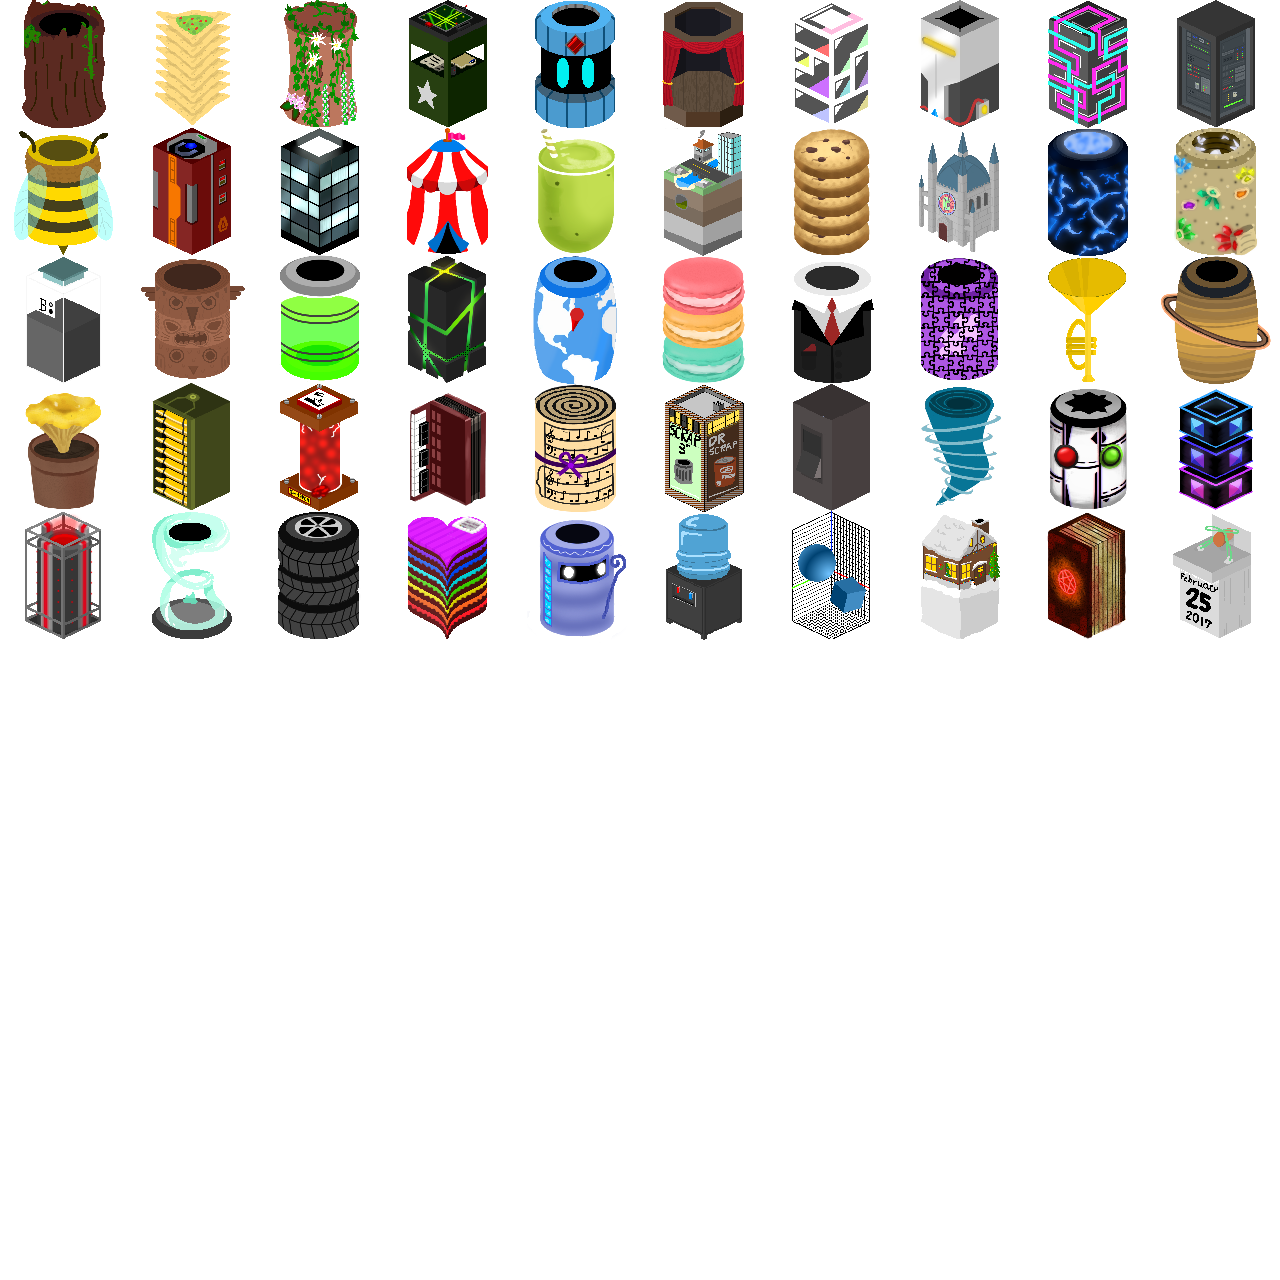
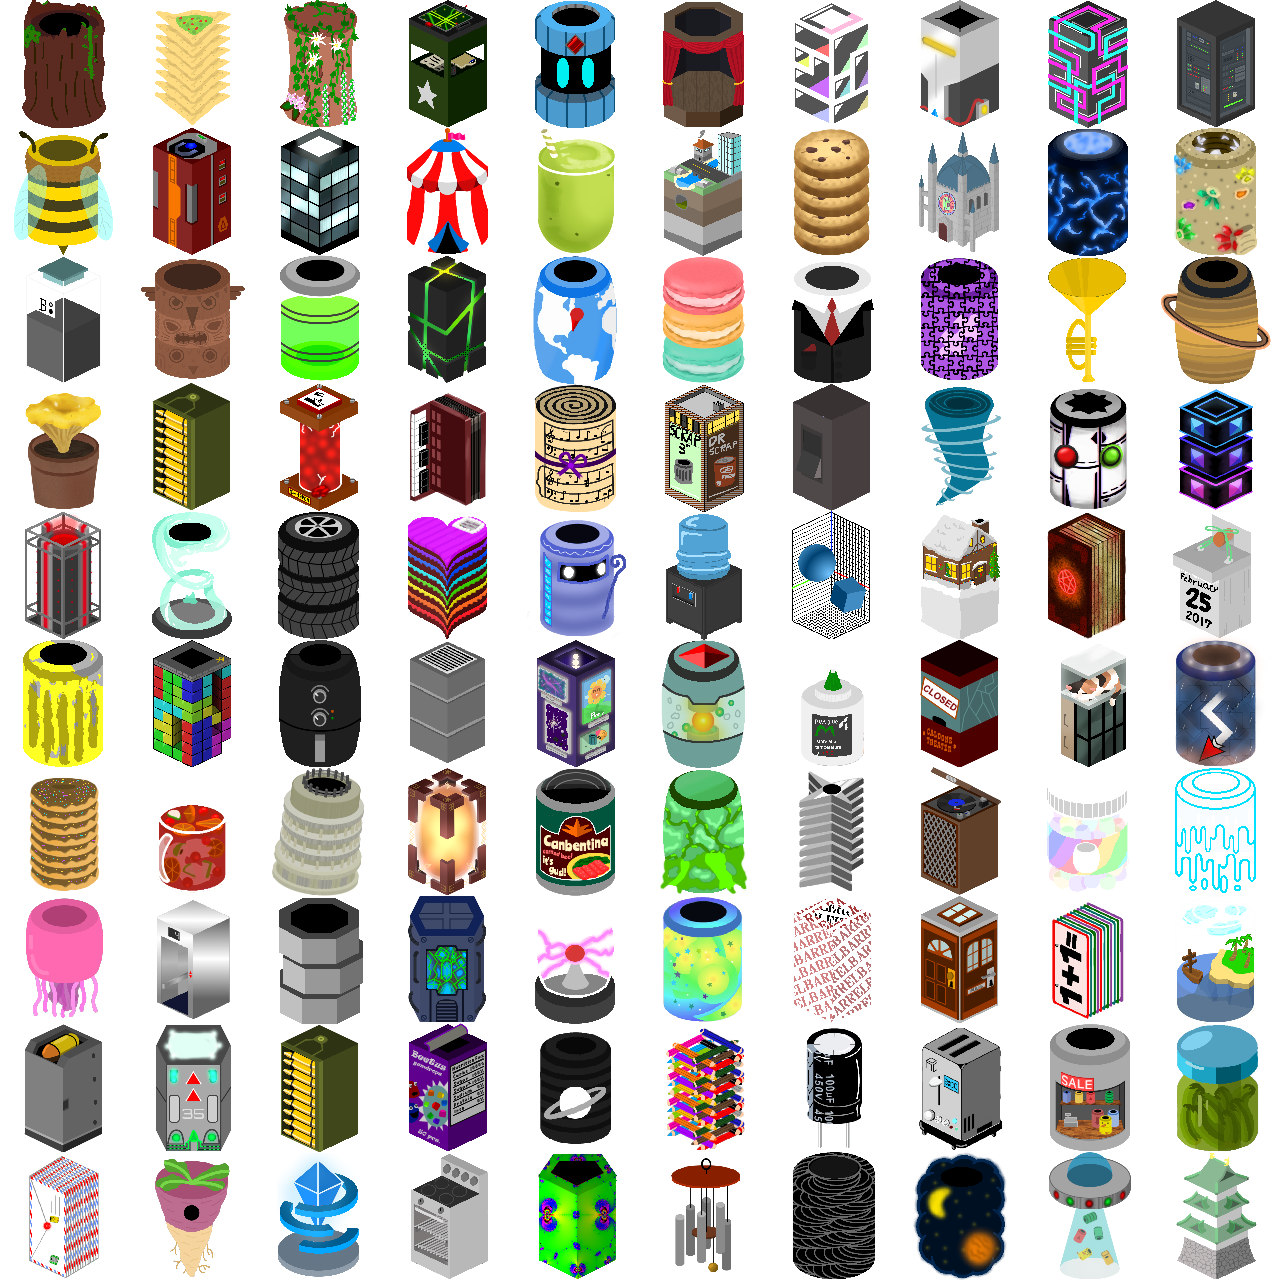
New barrels, new achievements and more

Changed region(s): [[0.3125, 0.5, 1.0, 1.0], [0.125, 0.5, 0.2812, 1.0], [0.0, 0.5, 0.1875, 1.0]]

diff --git a/Scripts/gamedefinition.js b/Scripts/gamedefinition.js
@@ -1,11 +1,11 @@
 let currentTime = new Date();
 let currentMonth = currentTime.getUTCMonth();
 
-const BARRELS = 950;
+const BARRELS = 1000;
 const CONST_SENDLIMIT = (currentMonth == 11 ? 6 : 3);
 const CONST_OPENLIMIT = (currentMonth == 11 ? 8 : 4);
 
-const gameVersionText = "-1.0h7^p#a2r"/*"v2.9.2 (v3.6.2)"*/;
+const gameVersionText = "v3.0 (v3.7)";
 
 var game =
 {
@@ -357,7 +357,7 @@ var game =
             ),
 
             mythus: new BarrelUpgrade(
-                level => new Decimal(3010 + (20 * level) - (game.skillTree.upgrades.cheaperMythus.level * 2)),
+                level => new Decimal(3010 + (20 * level) - (game.skillTree.upgrades.cheaperMythus.level * 2)).add(applyUpgrade(game.supernova.alienDustUpgrades.aquila)),
                 level => 20 * level,
                 {
                     getEffectDisplay: effectDisplayTemplates.numberStandard(0, "+"),
@@ -1960,76 +1960,81 @@ var game =
         },
 
         cosmicUpgrades: {
-            strongerMagnetGS: new CosmicEmblemUpgrade(level => new Decimal(0),
+            autoBuyerMax: new CosmicEmblemUpgrade(level => new Decimal(1),
                 level => level, {
                 maxLevel: 1,
                 getEffectDisplay: effectDisplayTemplates.unlock()
             }, 1),
-            moreQuestLevelsMax: new CosmicEmblemUpgrade(level => new Decimal(0),
+            strongerMagnetGS: new CosmicEmblemUpgrade(level => new Decimal(1),
                 level => level, {
                 maxLevel: 1,
                 getEffectDisplay: effectDisplayTemplates.unlock()
             }, 1),
-            autoBuyerMax: new CosmicEmblemUpgrade(level => new Decimal(0),
+            keepEZ: new CosmicEmblemUpgrade(level => new Decimal(1),
                 level => level, {
                 maxLevel: 1,
                 getEffectDisplay: effectDisplayTemplates.unlock()
             }, 1),
-            keepEZ: new CosmicEmblemUpgrade(level => new Decimal(0),
+            fasterMergeQuests: new CosmicEmblemUpgrade(level => new Decimal(1),
                 level => level, {
                 maxLevel: 1,
                 getEffectDisplay: effectDisplayTemplates.unlock()
-            }, 1),
-            moreScrapMax: new CosmicEmblemUpgrade(level => new Decimal(0),
-                level => level, {
-                maxLevel: 1,
-                getEffectDisplay: effectDisplayTemplates.unlock()
-            }, 1),
-            fasterMergeQuests: new CosmicEmblemUpgrade(level => new Decimal(0),
-                level => level, {
-                maxLevel: 1,
-                getEffectDisplay: effectDisplayTemplates.unlock()
-            }, 1),
-            doubleBeams: new CosmicEmblemUpgrade(level => new Decimal(0),
+            }, 2),
+            doubleBeams: new CosmicEmblemUpgrade(level => new Decimal(1),
                 level => 1 + level, {
                 maxLevel: 1,
                 getEffectDisplay: effectDisplayTemplates.numberStandard(2, "x")
-            }, 1),
-            keepAutoBuyers: new CosmicEmblemUpgrade(level => new Decimal(0),
+            }, 2),
+            moreScrapMax: new CosmicEmblemUpgrade(level => new Decimal(1),
                 level => level, {
                 maxLevel: 1,
                 getEffectDisplay: effectDisplayTemplates.unlock()
-            }, 1),
-            startScrap: new CosmicEmblemUpgrade(level => new Decimal(0),
+            }, 2),
+            keepAutoBuyers: new CosmicEmblemUpgrade(level => new Decimal(1),
+                level => level, {
+                maxLevel: 1,
+                getEffectDisplay: effectDisplayTemplates.unlock()
+            }, 3),
+            startScrap: new CosmicEmblemUpgrade(level => new Decimal(1),
                 level => new Decimal(1e60).mul(level), {
                 maxLevel: 1,
                 getEffectDisplay: effectDisplayTemplates.unlockEffect("+")
-            }, 1),
-            startBeams: new CosmicEmblemUpgrade(level => new Decimal(0),
+            }, 3),
+            startBeams: new CosmicEmblemUpgrade(level => new Decimal(1),
                 level => new Decimal(20000).mul(level), {
                 maxLevel: 1,
                     getEffectDisplay: effectDisplayTemplates.numberStandard(1, "+")
-            }, 1),
-            fasterAutoMerge: new CosmicEmblemUpgrade(level => new Decimal(0),
+            }, 3),
+            moreQuestLevelsMax: new CosmicEmblemUpgrade(level => new Decimal(1),
+                level => level, {
+                maxLevel: 1,
+                getEffectDisplay: effectDisplayTemplates.unlock()
+            }, 4),
+            strongerCollectors: new CosmicEmblemUpgrade(level => new Decimal(1),
+                level => level, {
+                maxLevel: 1,
+                getEffectDisplay: effectDisplayTemplates.unlock()
+            }, 4),
+            fasterAutoMerge: new CosmicEmblemUpgrade(level => new Decimal(1),
                 level => 1 - (level * 0.25), {
                 maxLevel: 1,
                 getEffectDisplay: effectDisplayTemplates.unlockEffect("x")
-            }, 1),
-            mythusMultiBuy: new CosmicEmblemUpgrade(level => new Decimal(0),
+            }, 4),
+            faster2ndDim: new CosmicEmblemUpgrade(level => new Decimal(2),
                 level => level, {
                 maxLevel: 1,
                 getEffectDisplay: effectDisplayTemplates.unlock()
-            }, 1),
-            hyperBuy: new CosmicEmblemUpgrade(level => new Decimal(0),
+            }, 5),
+            hyperBuy: new CosmicEmblemUpgrade(level => new Decimal(3),
                 level => level, {
                 maxLevel: 1,
                 getEffectDisplay: effectDisplayTemplates.unlock()
-            }, 1),
-            strongerCollectors: new CosmicEmblemUpgrade(level => new Decimal(0),
+            }, 5),
+            mythusMultiBuy: new CosmicEmblemUpgrade(level => new Decimal(2),
                 level => level, {
                 maxLevel: 1,
                 getEffectDisplay: effectDisplayTemplates.unlock()
-            }, 1),
+            }, 5),
         },
         starDustUpgrades: {
             ara: new StarDustUpgrade(
@@ -2088,6 +2093,14 @@ var game =
                 level => new Decimal(35).pow(level),
                 {
                     getEffectDisplay: effectDisplayTemplates.numberStandard(1, "x")
+                }
+            ),
+            aquila: new AlienDustUpgrade(
+                level => new Decimal(1),
+                level => new Decimal(level),
+                {
+                    getEffectDisplay: effectDisplayTemplates.numberStandard(1, "+"),
+                    afterBuy: () => updateBetterBarrels(),
                 }
             ),
         },
@@ -2359,6 +2372,7 @@ var game =
                 new Milestone(211, "Falling Magnet Guys", 2, "Make Falling Magnets\nworth 100x more", () => game.skillTree.upgrades.fallingMagnetValue.level > 0),
                 new Milestone(212, "Tim Mode", 112, "Unlock Time Mode", () => game.skillTree.upgrades.unlockTimeMode.level > 0),
                 new Milestone(213, "Third Dimension", 112, () => "Start a run...", () => game.dimension == 508050),
+                new Milestone(236, "Infinite GS", 4, () => "Reach " + formatNumber(new Decimal(2e308)) + " Golden Scrap", () => game.goldenScrap.amount.gte(2e308)),
                 new Milestone(234, "Advent Calendar", 116, "Send some gifts to the people", () => game.stats.giftsSent.gte(24)),
                 new Milestone(214, "Hot Wheels", 111, "Earn your first cogwheels!", () => game.cogwheels.amount.gte(1)),
                 new Milestone(215, "Cog, the player?", 111, "Have 1000 cogwheels at once", () => game.cogwheels.amount.gte(1000)),
@@ -2371,16 +2385,30 @@ var game =
                 new Milestone(222, "This is useless", 2, "Get more passive magnets (Level 10)", () => game.tires.upgrades[3][0].level > 9),
                 new Milestone(223, "A % Beam Prod Increase?", 47, "Get more beams... in % (Level 10)", () => game.tires.upgrades[3][1].level > 9),
                 new Milestone(224, "Plastic Eff. Testing Agency", 95, "Cheaper Plastic Bags (Level 10)", () => game.tires.upgrades[3][2].level > 9),
+                new Milestone(237, "500 Golden", 4, () => "Reach " + formatNumber(new Decimal("1e500")) + " Golden Scrap", () => game.goldenScrap.amount.gte("1e500")),
+                new Milestone(238, "The Final Unlock", 2, "Max. Earth", () => game.solarSystem.upgrades.earth.level >= EarthLevels.UNLOCK_NOVA),
+                new Milestone(239, "The Final Tree Upgrade", 2, "Buy the final tree upgrade", () => game.skillTree.upgrades.unlockSupernova.level > 0),
                 new Milestone(227, "Combine Everything", 65, "Do 100k self merges\n(Merges from auto merge do not count as self merges)", () => game.selfMerges > 99999),
                 new Milestone(179, "Scrapyard v300", 68, "Upgrade scrapyard to level 301", () => game.mergeQuests.scrapyard > 300),
                 new Milestone(235, "They Call Me Santa", 117, "Send a few gifts to the people", () => game.stats.giftsSent.gte(100)),
                 new Milestone(147, "Time to go AFK...", 87, "Max. the first auto buyer", () => game.autos.autoBetterBarrels.level > 116),
                 new Milestone(210, "It's been 84 years...", 27, "Level the fourth tire row to 50", () => game.tires.upgrades[3][0].level > 49 && game.tires.upgrades[3][1].level > 49 && game.tires.upgrades[3][2].level > 49),
                 new Milestone(165, "Nobody can touch this", 69, () => "Reach " + formatNumber(new Decimal(2).pow(40960)) + " Scrap\nStop... scrap grinding time!", () => game.highestScrapReached.gte(Decimal.pow(2, 40960))),
-                new Milestone(200, "Crab Saver VII", 96, "Buy 10000 Plastic Bags (in total)", () => game.stats.totalplasticbags.gte(10000)),
                 new Milestone(229, "Need more\nNice", 30, () => "First Barrel produces more than " + formatNumber(new Decimal("6e9420")) + " Scrap", () => Barrel.getIncomeForLevel(0).gte(new Decimal("6e9420"))),
+                new Milestone(240, "A new prestige layer?!", 118, "Do a supernova.", () => game.supernova.cosmicEmblems.gt(0)),
+                new Milestone(241, "I'm a star", 7, "Get your first star!", () => game.supernova.stars.gt(0)),
+                new Milestone(200, "Crab Saver VII", 96, "Buy 10000 Plastic Bags (in total)", () => game.stats.totalplasticbags.gte(10000)),
+                new Milestone(244, "Who needs crazy boosts?", 118, "Have 3 Cosmic Emblems at the same time", () => game.supernova.cosmicEmblems.gt(2)),
+                new Milestone(242, "Scrap 2 Moment", 7, "Get your tenth star!", () => game.supernova.stars.gte(10)),
+                new Milestone(245, "Blessing from\nthe Stars", 119, () => "Have " + formatNumber(100000) + " total Star Dust", () => game.stats.totalstardust.gte(100000)),
+                new Milestone(246, "Blessing from\nthe Aliens", 119, () => "Have " + formatNumber(100000) + " total Alien Dust", () => game.stats.totalaliendust.gte(100000)),
+                new Milestone(247, "Blessing from\nthe Fairies", 119, () => "Have " + formatNumber(100000) + " total Fairy Dust", () => game.stats.totalfairydust.gte(100000)),
+                new Milestone(243, "Scrapstar", 7, "Get your 100th star!", () => game.supernova.stars.gte(100)),
                 new Milestone(228, "Nuclear Fusion", 65, "Do 1M self merges\n(Merges from auto merge do not count as self merges)\n(I'm sorry)", () => game.selfMerges > 999999),
                 new Milestone(155, "Tire Club", 88, () => "Reach " + formatNumber(new Decimal("1e1e9")) + " tires\nand unlock the Tire Club!", () => game.tires.amount.gte("1e1000000000")),
+                new Milestone(248, "Not even aliens\ncan touch this", 69, () => "Reach " + formatNumber(new Decimal(2).pow(327680)) + " Scrap\nStop... scrap grinding time!", () => game.highestScrapReached.gte(Decimal.pow(2, 327680))),
+                new Milestone(249, "Yellow", 4, () => "Reach " + formatNumber(new Decimal("1e2500")) + " Golden Scrap", () => game.goldenScrap.amount.gte("1e2500")),
+                new Milestone(250, "The End", 0, () => "Get All Achievements", () => game.ms.length > 248),
                 //new Milestone(166, "", 50, "", () => ),
                 ],
         highlighted: 0, 

diff --git a/Scripts/scene.js b/Scripts/scene.js
@@ -344,9 +344,9 @@ var scenes =
                 ctx.textBaseline = "bottom";
                 ctx.fillText(gameVersionText, w * 0.99, h - w * 0.01);
 
-                ctx.textAlign = "center";
-                ctx.font = "300 px " + fonts.default;
-                ctx.fillText("Hopefully bug free?", w * 0.49, h - w * 0.1);
+                //ctx.textAlign = "center";
+                //ctx.font = "300 px " + fonts.default;
+                //ctx.fillText("Hopefully bug free?", w * 0.49, h - w * 0.1);
 
             }),
         new Scene("Barrels",
@@ -3143,6 +3143,7 @@ var scenes =
                     new UIEmblemUpgrade(game.supernova.cosmicUpgrades.strongerCollectors, images.upgrades.unlockAutoCollectors, "Stronger\nAuto Collectors", 0.5, 1.35, "table2"),
                     new UIEmblemUpgrade(game.supernova.cosmicUpgrades.fasterAutoMerge, images.upgrades.fasterAutoMerge, "Faster Auto Merge", 0.8, 1.35, "table2"),
 
+                    new UIEmblemUpgrade(game.supernova.cosmicUpgrades.faster2ndDim, images.upgrades.moreDarkScrap, "Faster\n2nd Dim", 0.2, 1.65, "table"),
                     new UIEmblemUpgrade(game.supernova.cosmicUpgrades.hyperBuy, images.checkbox.hyperbuy.on, "Hyper Buy", 0.5, 1.65, "table"),
                     new UIEmblemUpgrade(game.supernova.cosmicUpgrades.mythusMultiBuy, images.upgrades.cheaperMythus, "Get 10 Mythus\nLevels at once", 0.8, 1.65, "table"),
                 ], 0, 0.3, 1, 0.7, () => true, { ymin: 0, ymax: 1.85 })
@@ -3190,12 +3191,14 @@ var scenes =
                         for (u in game.supernova.alienDustUpgrades) {
                             game.supernova.alienDustUpgrades[u].level = 0;
                         }
+                        updateBetterBarrels();
                     }
                 }, { quadratic: true }),
 
                 new UIPlanet(0.2, 0.8, "Cetus\nFaster Crafting", game.supernova.alienDustUpgrades.cetus, "$images.aliendust$", images.constellations.cetus, 0.075),
                 new UIPlanet(0.8, 0.2, "Triangulum\nMore Merge Tokens", game.supernova.alienDustUpgrades.triangulum, "$images.aliendust$", images.constellations.triangulum, 0.075),
                 new UIPlanet(0.5, 0.6, "Volans 2\nMore Dark Fragments", game.supernova.alienDustUpgrades.volans2, "$images.aliendust$", images.constellations.volans, 0.075),
+                new UIPlanet(0.7, 0.85, "Aquila\nHigher Better Barrels max.", game.supernova.alienDustUpgrades.aquila, "$images.aliendust$", images.constellations.aquila, 0.075),
             ],
             function () {
                 ctx.fillStyle = "black";
@@ -3221,7 +3224,7 @@ var scenes =
                 new UIPlanet(0.85, 0.2, "Pyxis\nMore Beams", game.supernova.fairyDustUpgrades.pyxis, "$images.fairydust$", images.constellations.pyxis, 0.075),
                 new UIPlanet(0.3, 0.4, "Antlia\nMore Aerobeams", game.supernova.fairyDustUpgrades.antlia, "$images.fairydust$", images.constellations.antlia, 0.075),
                 new UIPlanet(0.6, 0.45, "Phoenix\nMore Angel Beams", game.supernova.fairyDustUpgrades.phoenix, "$images.fairydust$", images.constellations.phoenix, 0.075),
-                new UIPlanet(0.35, 0.8, "Orion\nMore Reinforced Beams", game.supernova.fairyDustUpgrades.phoenix, "$images.fairydust$", images.constellations.orion, 0.075),
+                new UIPlanet(0.35, 0.8, "Orion\nMore Reinforced Beams", game.supernova.fairyDustUpgrades.orion, "$images.fairydust$", images.constellations.orion, 0.075),
                 new UIPlanet(0.7, 0.85, "Puppis\nMore Glitch Beams", game.supernova.fairyDustUpgrades.puppis, "$images.fairydust$", images.constellations.puppis, 0.075),
             ],
             function () {

diff --git a/Scripts/main.js b/Scripts/main.js
@@ -788,7 +788,7 @@ function onBarrelMerge(isAuto, lvl, bx, by)
     freeSpots += 1;
     game.totalMerges += 1;
     game.mergesThisPrestige += 1;
-    if (game.barrelMastery.isUnlocked()) {
+    if (game.barrelMastery.isUnlocked() || game.supernova.stars.gt(0)) {
         game.barrelMastery.b[lvl % BARRELS] += 1;
         if (calculateMasteryLevel(game.barrelMastery.b[lvl % BARRELS]) > game.barrelMastery.bl[lvl % BARRELS]) {
             game.barrelMastery.bl[lvl % BARRELS] += 1;
@@ -1918,7 +1918,7 @@ btnInstall.style.display = "none";
 
 
 function updateBetterBarrels() {
-    if(game.dimension == 0) game.scrapUpgrades.betterBarrels.maxLevel = 3000 + game.solarSystem.upgrades.mythus.level * 20;
+    if(game.dimension == 0) game.scrapUpgrades.betterBarrels.maxLevel = 3000 + game.solarSystem.upgrades.mythus.level * 20 + Math.floor(applyUpgrade(game.supernova.alienDustUpgrades.aquila));
     if(game.dimension == 1) game.scrapUpgrades.betterBarrels.maxLevel = Math.min(3000 + game.solarSystem.upgrades.mythus.level * 20, game.highestBarrelReached - 25);
 }
 

diff --git a/Scripts/barrel.js b/Scripts/barrel.js
@@ -70,7 +70,7 @@ class Barrel
         }
         if (game.dimension == 1) {
             return (Decimal.pow(1.1, level)
-                .mul(new Decimal(1.05).pow(game.mergesThisPrestige))
+                .mul(new Decimal(1.05 + ((game.highestBarrelReached / 100000) * game.supernova.cosmicUpgrades.faster2ndDim.level)).pow(game.mergesThisPrestige))
                 .mul(1 + applyUpgrade(game.darkfragment.upgrades.scrapBoost)))
                 .min(new Decimal(game.highestScrapReached).sub(game.scrap))
         }          

diff --git a/Scripts/preload.js b/Scripts/preload.js
@@ -281,6 +281,7 @@ var images =
         puppis: loadImage("Images/Constellations/puppis.png"),
         cetus: loadImage("Images/Constellations/cetus.png"),
         triangulum: loadImage("Images/Constellations/triangulum.png"),
+        aquila: loadImage("Images/Constellations/aquila.png"),
     },
     achievements:
     {
